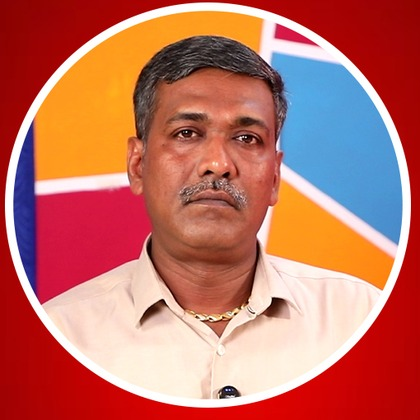
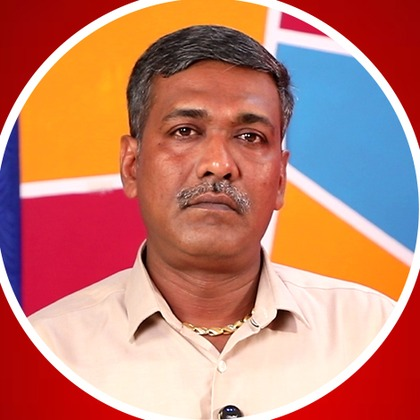
Tighten astrologer portrait crops

diff --git a/assets/images/astrologers/source/README.md b/assets/images/astrologers/source/README.md
@@ -2,5 +2,5 @@
 
 - These 21 JPEG files are byte-for-byte originals from `astrologer's card-20260619T101642Z-3-001.zip` supplied by the client.
 - Stable filenames match the astrologer slugs in `storage/data/astrologers.json`.
-- Public portraits in `../client/` are generated from crop box `(285, 185, 795, 695)` on each 1080x1080 original, then resized to 420x420.
+- Public portraits in `../client/` are generated from crop box `(305, 200, 775, 670)` on each 1080x1080 original, then resized to 420x420. This slight inset removes the external red card background from the circular frame.
 - Do not crop the upper-left 420px square; it contains template background and cuts off the portrait.
